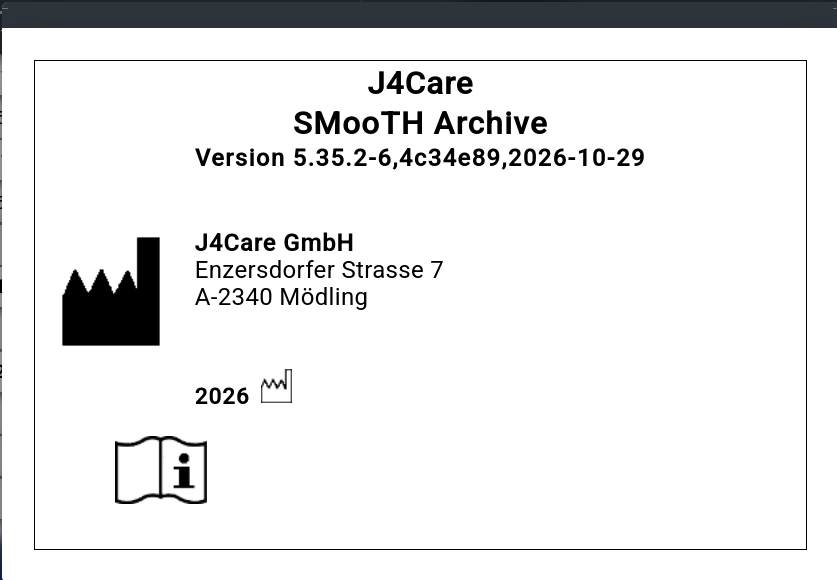
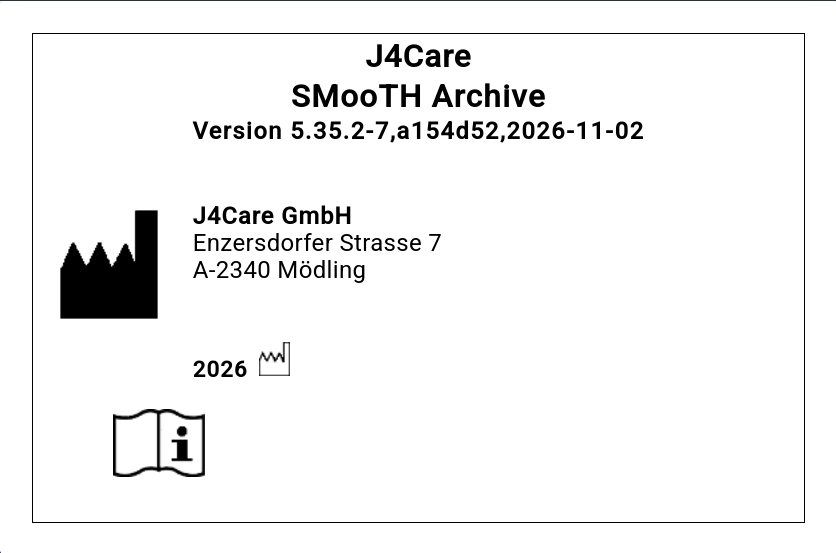
release 5.35.2-7

diff --git a/docs/conf.py b/docs/conf.py
@@ -22,7 +22,7 @@ project = u'Smooth Archive - DICOM Conformance Statement'
 copyright = u'2026, J4Care GmbH'
 author = u'J4Care GMbH'
 version = u'5.35.2'
-release = u'5.35.2-6'
+release = u'5.35.2-7'
 
 # If extensions (or modules to document with autodoc) are in another directory,
 # add these directories to sys.path here. If the directory is relative to the

diff --git a/docs/iso-preamble.rst b/docs/iso-preamble.rst
@@ -63,7 +63,7 @@ Revision Record for Document AEN-00039-0516.10
      - Reviewer
    * - 93
      - `Release Notes 5.35.2 <https://docs.j4care.com/archive/releases/pro-release-5-35-2>`_
-     - **30.10.2026**
+     - **02.11.2026**
      - P. Kalina
      - J.Friedrichkeit
    * - 92
